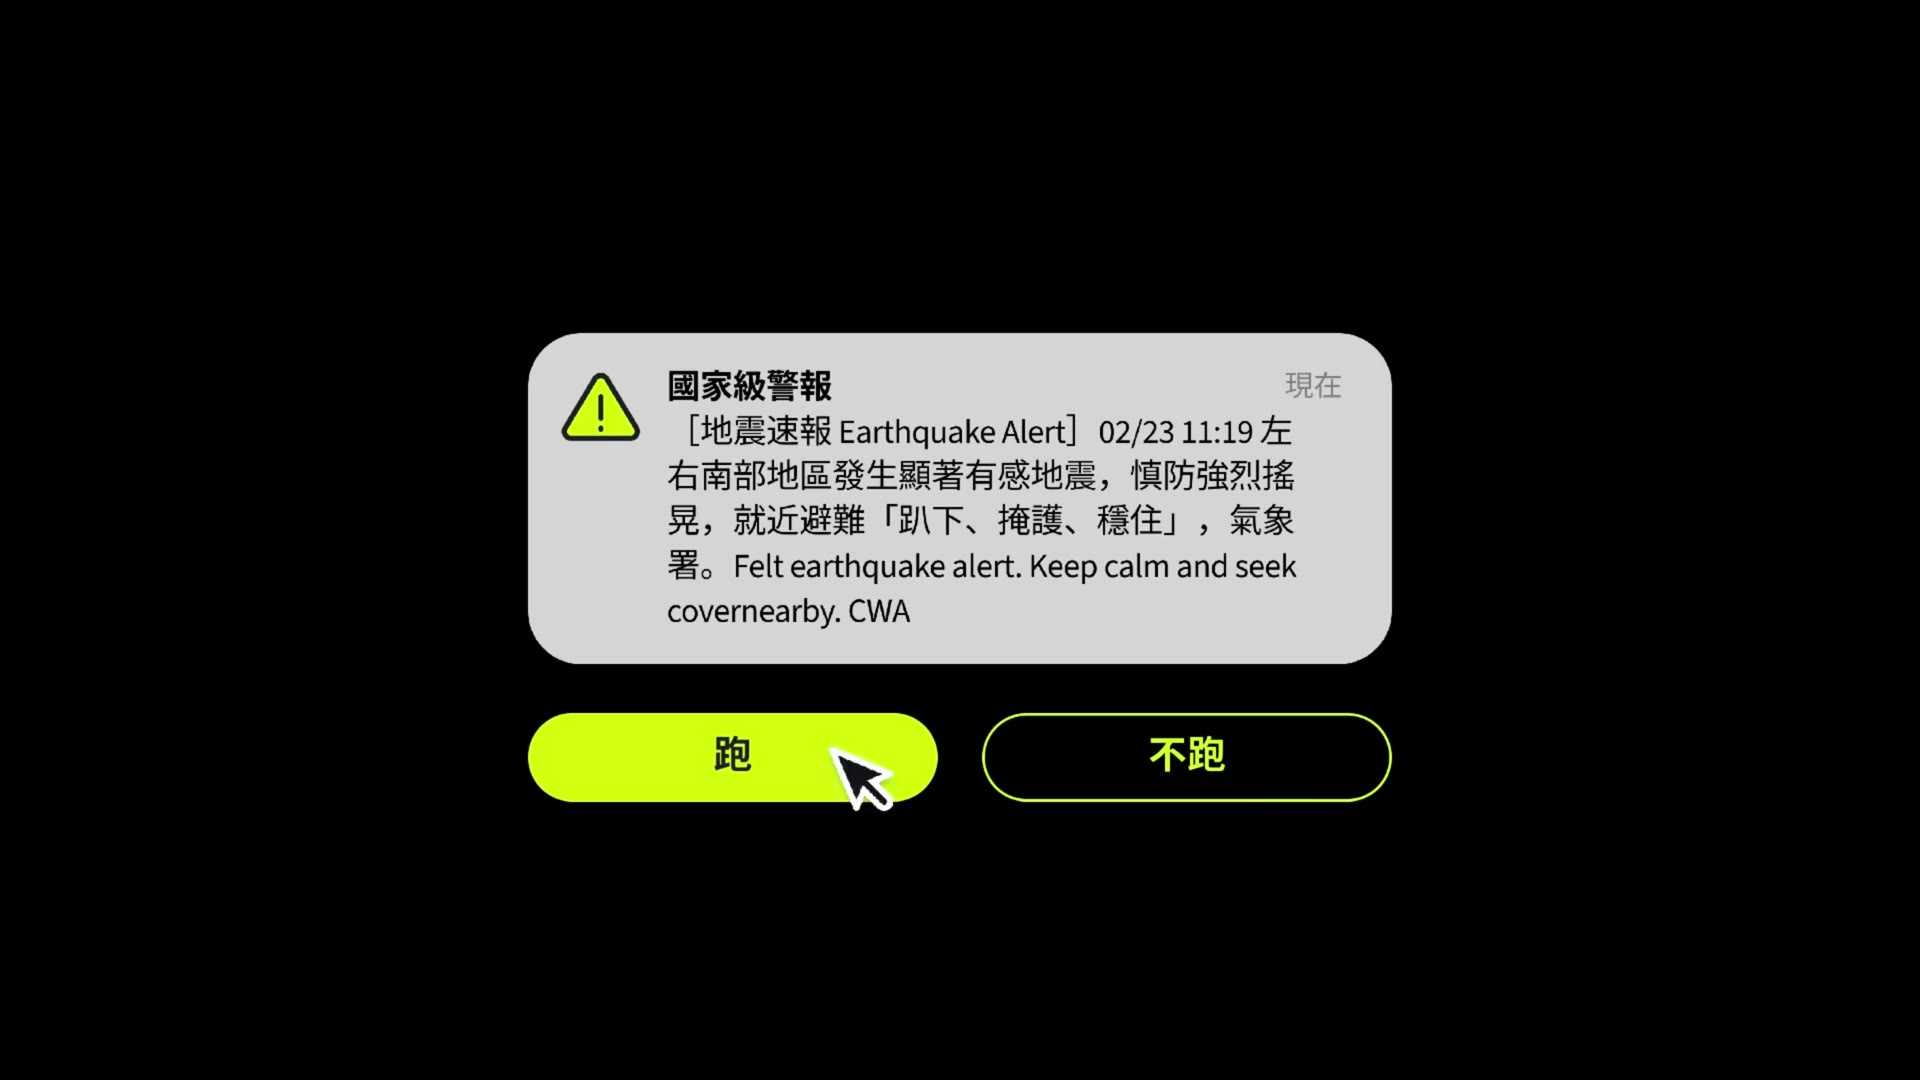
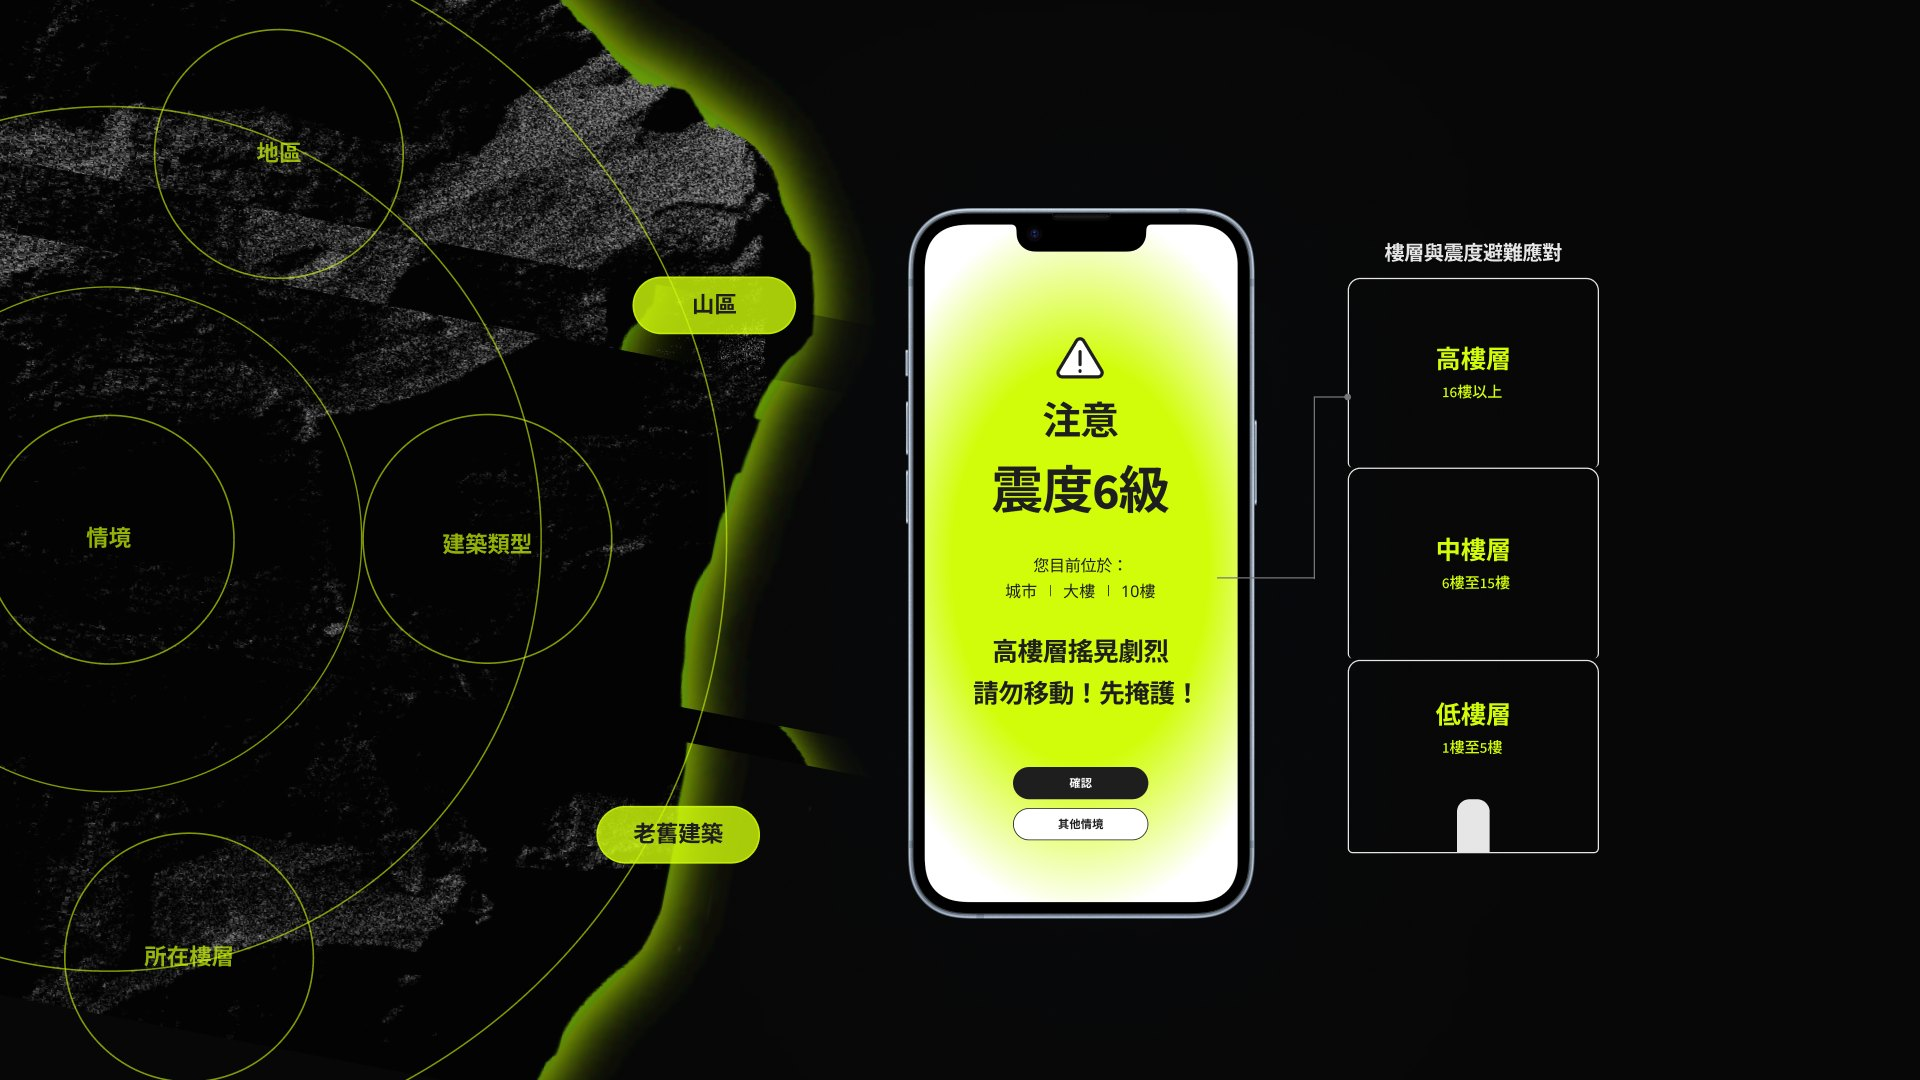
Soul Map case study rebuilt; 3:1 hero covers; new video poster
- soulmap.html: concept-practice narrative (honest positioning) with
  one core judgment (sequential unlock answers both choice-paralysis
  and motivation), three decision cards, practice-boundary note,
  periwinkle light showcase with character design section
- TRA and Soul Map heroes re-exported at 3200x1080 (3:1 spec, no crop)
- Quake intro video poster replaced (user's 1920x1080 artwork)
- Copy: professional narrative pass on soulmap intro and 04 lead

diff --git a/work/soulmap.html b/work/soulmap.html
@@ -3,8 +3,8 @@
 <head>
 <meta charset="UTF-8" />
 <meta name="viewport" content="width=device-width, initial-scale=1.0" />
-<title>Soul Map — 心靈冥想 App · Case Study</title>
-<meta name="description" content="Soul Map — 心靈冥想 / 自我覺察 App 的 UI/UX 完整案例。" />
+<title>Soul Map — 冥想 App 概念設計 · Case Study</title>
+<meta name="description" content="Soul Map — 從 0 到 1 的冥想 App 概念設計。以循序解鎖的主題結構回應「不知如何開始」與「無法持續」兩大門檻，並以角色與色彩建立情緒語言。" />
 <link rel="preconnect" href="https://fonts.googleapis.com" />
 <link rel="preconnect" href="https://fonts.gstatic.com" crossorigin />
 <link href="https://fonts.googleapis.com/css2?family=Fraunces:ital,opsz,wght@0,9..144,300..600;1,9..144,300..500&family=Hanken+Grotesk:wght@400;500;600&display=swap" rel="stylesheet" />
@@ -20,68 +20,243 @@
 </div>
 
 <main>
-  <section class="case-hero">
-    <div class="wrap">
-      <span class="eyebrow">UI/UX · Wellness App · 2023</span>
-      <h1 class="display">Soul Map</h1>
-      <p class="lead">以「冥想與自我覺察」為主題的 App 概念 —— 從 UX 研究、人物誌、資訊架構到 UI 視覺的完整案例，用柔和的漸層與 3D 角色建立平靜、被陪伴的使用感受。</p>
+  <!-- 滿版 hero -->
+  <div class="cx-herobanner">
+    <img src="../assets/images/project/UIUX/web/soulmap/cover.jpg" alt="Soul Map 主視覺" />
+  </div>
+
+  <!-- 標題 -->
+  <div class="cx-title">
+    <span class="eyebrow">UI/UX · Meditation App Concept · 2022</span>
+    <h1 class="display">Soul Map</h1>
+    <p class="lead">從 0 到 1 的冥想 App 概念設計：把「持續下去的動力」做成產品機制與視覺語言。</p>
+  </div>
+
+  <!-- meta -->
+  <dl class="cx-metarow">
+    <div><dt>專案時程</dt><dd>2022</dd></div>
+    <div><dt>主要負責項目</dt><dd>UX 研究、UI 設計、角色與視覺設計</dd></div>
+    <div><dt>使用工具</dt><dd>Figma</dd></div>
+    <div><dt>類型</dt><dd>概念設計 · 心理健康</dd></div>
+  </dl>
+
+  <!-- 左導覽 + 敘事 -->
+  <div class="cx">
+    <aside class="cx-nav">
+      <ul>
+        <li><a href="#s1" class="active">背景與目標</a></li>
+        <li><a href="#s2">挑戰與洞察</a></li>
+        <li><a href="#s3">設計決策</a></li>
+        <li><a href="#s4">介面設計</a></li>
+      </ul>
+    </aside>
+
+    <div class="cx-main">
+
+      <!-- 01 背景與目標 -->
+      <section class="cx-sec" id="s1" data-sec>
+        <span class="secnum">01</span>
+        <h2 class="lbl">背景與目標</h2>
+        <p class="intro">冥想有助於緩解焦慮與壓力，但多數人在學習過程中會遇到兩個障礙，<b>不知道如何開始，以及難以長期持續</b>。Soul Map 是一項從 0 到 1 的概念設計，目標是透過產品機制降低入門門檻、建立持續練習的動力。</p>
+        <div class="sub">
+          <h3>專案目標</h3>
+          <ul class="facts">
+            <li>引導式冥想，幫助使用者輕鬆進入、提高專注與放鬆</li>
+            <li>主題依難度與目標分類，循序漸進解鎖，降低入門門檻</li>
+            <li>日記與進度追蹤，把進步變得看得見，支撐習慣養成</li>
+          </ul>
+        </div>
+      </section>
+
+      <!-- 02 挑戰與洞察 -->
+      <section class="cx-sec" id="s2" data-sec>
+        <span class="secnum">02</span>
+        <h2 class="lbl">挑戰與洞察</h2>
+        <p class="intro">這個專案的研究做三件事：看競品缺什麼、找出三種典型使用者、把他們的旅程攤開找斷點。</p>
+        <div class="phases">
+          <div class="ph"><span class="pht">競品分析</span><span class="phw">Headspace、Calm、10% happier</span></div>
+          <div class="ph"><span class="pht">Persona · 3 位</span><span class="phw">對應冥想旅程的三個階段</span></div>
+          <div class="ph"><span class="pht">Journey Map</span><span class="phw">斷點歸納成三個設計方向</span></div>
+        </div>
+
+        <div class="sub">
+          <h3>競品分析：共同的缺口</h3>
+          <p>三款主流冥想 App 都有探索、主題自選與紀錄追蹤；差異在 Headspace 的社交互動、Calm 的沉浸介面、10% happier 的個人化引導。共同的缺口是：<b>沒有一款把「循序漸進」做成結構</b>，初學者一進來就面對整片主題海。</p>
+          <div class="fig"><img src="../assets/images/project/UIUX/web/soulmap/research.jpg" alt="競品分析：三款冥想 App 的定位與異同" loading="lazy" /><div class="cap">競品定位 · 資訊架構複雜度 × 介面簡易度，與三款產品的類同點、類異點</div></div>
+        </div>
+
+        <div class="sub">
+          <h3>三位使用者：開始、持續、分享</h3>
+          <p>三位訪談對象剛好落在冥想旅程的三個階段：想開始的 CAMILA（不知道冥想該如何開始）、想持續的 KEVIN（容易分心、很難自律養成習慣）、想分享的 GEOFF（和身邊的人一起冥想更有樂趣）。<b>三個階段，三種需要被設計的動力。</b></p>
+          <div class="fig"><img src="../assets/images/project/UIUX/web/soulmap/persona.jpg" alt="三位 Persona：CAMILA、KEVIN、GEOFF" loading="lazy" /><div class="cap">Persona · 想開始（CAMILA）、想持續（KEVIN）、想分享（GEOFF）</div></div>
+        </div>
+
+        <div class="sub">
+          <h3>旅程斷點：三個設計方向</h3>
+          <p>把使用歷程從探索、註冊、開始冥想到長期使用攤開後，低谷收斂成三件事：<b>主題太多不知道選哪個、無法專注與維持動力、無法與朋友分享</b>。這三個方向就是後續設計的骨架。</p>
+          <div class="fig"><img src="../assets/images/project/UIUX/web/soulmap/journey.jpg" alt="Journey Map：使用歷程與痛點" loading="lazy" /><div class="cap">Journey Map · 低谷集中在「不知道選哪個主題」「付費牆」「沒有動力持續」</div></div>
+        </div>
+
+        <div class="sub">
+          <h3>設計觀點：五個功能支柱</h3>
+          <p>三個方向展開成五個功能支柱：進度追蹤、解鎖資源、主題分類、好友分享、日記。以解鎖的方式循序漸進獲得新課程，用心情日記回顧成長，讓動力來自產品機制本身。</p>
+          <div class="fig"><img src="../assets/images/project/UIUX/web/soulmap/pov.jpg" alt="Point of View 與五大功能支柱" loading="lazy" /></div>
+        </div>
+      </section>
+
+      <!-- 03 設計決策 -->
+      <section class="cx-sec" id="s3" data-sec>
+        <span class="secnum">03</span>
+        <h2 class="lbl">設計決策</h2>
+        <p class="intro">五個支柱裡，真正的核心判斷只有一個：<b>主題要不要全部開放</b>。</p>
+        <div class="versus">
+          <div class="vopt lose">
+            <span class="vtag">放棄</span>
+            <div class="vt">全部開放</div>
+            <p>所有冥想主題自由選擇，想練哪個練哪個</p>
+          </div>
+          <div class="vs">vs</div>
+          <div class="vopt win">
+            <span class="vtag">我的選擇</span>
+            <div class="vt">循序解鎖</div>
+            <p>一次只給一關，完成才解鎖下一關</p>
+          </div>
+        </div>
+        <p class="intro" style="margin-top:16px">一個機制同時回應兩個痛點：「主題太多不知道選哪個」，因為一次只有一關，不需要選；「沒有動力持續」，因為解鎖本身就是獎勵。代價也很明確：<b>有經驗的使用者會被進度綁住</b>，無法直接跳到想要的主題。</p>
+
+        <div class="sub">
+          <h3>三個決策</h3>
+          <div class="dcards">
+            <div class="dcard">
+              <span class="dph">開始</span>
+              <span class="dnum">決策 01</span>
+              <h4>循序解鎖的主題結構</h4>
+              <span class="dsrc">依據 · 旅程斷點「主題選項多不知如何選擇」；KEVIN「沒有動力每天冥想」。</span>
+              <div class="dline dwin"><span class="k">選擇</span><span>Level 1 呼吸、Level 2 減壓、Level 3 內觀，完成當前主題才解鎖下一個</span></div>
+              <div class="dline dlose"><span class="k">放棄</span><span>自由選擇：有經驗的使用者被進度綁住</span></div>
+            </div>
+            <div class="dcard">
+              <span class="dph">持續</span>
+              <span class="dnum">決策 02</span>
+              <h4>心情日記與進度追蹤</h4>
+              <span class="dsrc">依據 · KEVIN「能追蹤冥想紀錄和看到活動結果」；把看不見的進步變成看得見的數據與心情。</span>
+              <div class="dline dwin"><span class="k">選擇</span><span>冥想完成即寫心情、進步率圓環與每週時間長條圖</span></div>
+              <div class="dline dlose"><span class="k">放棄</span><span>完成即離開的極簡流程：多一步紀錄，換長期的動力</span></div>
+            </div>
+            <div class="dcard">
+              <span class="dph">分享</span>
+              <span class="dnum">決策 03</span>
+              <h4>好友聊天與成就分享</h4>
+              <span class="dsrc">依據 · GEOFF「能和身邊的人一起冥想更有樂趣」；旅程斷點「無法與朋友分享」。</span>
+              <div class="dline dwin"><span class="k">選擇</span><span>好友邀請、聊天對話、成就與心情分享</span></div>
+              <div class="dline dlose"><span class="k">放棄</span><span>純個人的產品定位：引入社交就得處理封鎖、靜音與通知的複雜度</span></div>
+            </div>
+          </div>
+        </div>
+
+        <div class="sub">
+          <h3>功能架構與流程</h3>
+          <p>功能架構沿五個支柱展開；流程分成帳號與冥想兩條主線，冥想完成後接心情日記與解鎖新課程，把「完成 → 紀錄 → 解鎖」串成動力迴圈。</p>
+          <div class="fig"><img src="../assets/images/project/UIUX/web/soulmap/functional-map.jpg" alt="Functional Map 功能架構" loading="lazy" /><div class="cap">Functional Map · 六大功能分支</div></div>
+          <div class="fig"><img src="../assets/images/project/UIUX/web/soulmap/userflow.jpg" alt="User Flow：帳號與冥想主流程" loading="lazy" /><div class="cap">User Flow · 登入註冊與冥想主流程，完成後接日記與解鎖</div></div>
+        </div>
+
+        <div class="sub">
+          <h3>Wireframe</h3>
+          <p>以線框把啟動、主題、播放、追蹤、日記到聊天的畫面骨架排定，再進入視覺設計。</p>
+          <div class="fig"><img src="../assets/images/project/UIUX/web/soulmap/wireframe.jpg" alt="Wireframe 畫面骨架" loading="lazy" /></div>
+        </div>
+
+        <div class="sub">
+          <h3>練習的邊界</h3>
+          <p>本專案為概念設計，尚未進行易用性測試。若後續投入開發，優先驗證的是解鎖機制，循序解鎖降低了初學者的選擇負擔，<b>但對已有經驗、想自由探索的使用者可能形成新的限制</b>，兩者的平衡需要以測試確認。</p>
+        </div>
+      </section>
+
     </div>
+  </div>
+
+  <!-- 04 介面設計（淺色展示區） -->
+  <section class="uilight" id="s4" data-sec>
+    <div class="uhead">
+      <span class="k">04</span>
+      <h2>介面設計</h2>
+      <p>介面以藍紫色為主色，搭配玻璃質感與漸層營造平靜放鬆的氛圍；三個 Level 分別對應專屬角色與代表色，作為情緒與進度的視覺識別。</p>
+    </div>
+
+    <div class="ui-sub">
+      <span class="k">Design System</span>
+      <h3>Style Guide</h3>
+      <p>色彩、字級、按鈕與元件狀態的規格，維持多畫面的一致性。</p>
+    </div>
+    <div class="wide">
+      <div class="sgbox"><img src="../assets/images/project/UIUX/web/soulmap/styleguide.jpg" alt="Style Guide 設計系統" loading="lazy" /></div>
+      <div class="boxhint">↕ 框內可捲動查看完整設計系統</div>
+    </div>
+
+    <div class="ui-sub">
+      <span class="k">Character</span>
+      <h3>角色設計</h3>
+      <p>三個 Level 各有一位冥想角色與情緒代表色，陪使用者從呼吸練到內觀；角色也是解鎖進度的視覺回饋。</p>
+    </div>
+    <div class="wide"><img src="../assets/images/project/UIUX/web/soulmap/character.jpg" alt="三個 Level 的冥想角色設計" loading="lazy" /></div>
+
+    <div class="ui-sub">
+      <span class="k">介面 01</span>
+      <h3>啟動與歡迎</h3>
+      <p>進入 App 先預告接下來會發生的事，降低初學者的不確定感。</p>
+    </div>
+    <div class="wide"><img src="../assets/images/project/UIUX/web/soulmap/ui-1.jpg" alt="啟動畫面與歡迎頁" loading="lazy" /></div>
+
+    <div class="ui-sub">
+      <span class="k">介面 02</span>
+      <h3>登入與註冊</h3>
+      <p>支援第三方登入，註冊的理由講清楚：保存你的練習紀錄。</p>
+    </div>
+    <div class="wide"><img src="../assets/images/project/UIUX/web/soulmap/ui-2.jpg" alt="登入與註冊" loading="lazy" /></div>
+
+    <div class="ui-sub">
+      <span class="k">介面 03</span>
+      <h3>解鎖式主題</h3>
+      <p>Level 1 到 Level 3 由呼吸、減壓到內觀，鎖頭即進度：決策 01 的落地。</p>
+    </div>
+    <div class="wide"><img src="../assets/images/project/UIUX/web/soulmap/ui-3.jpg" alt="解鎖式冥想主題" loading="lazy" /></div>
+
+    <div class="ui-sub">
+      <span class="k">介面 04</span>
+      <h3>冥想引導動畫</h3>
+      <p>吸氣、吐氣跟著角色動畫走，不靠文字指令維持專注。</p>
+    </div>
+    <div class="wide"><img src="../assets/images/project/UIUX/web/soulmap/ui-4.jpg" alt="冥想引導動畫序列" loading="lazy" /></div>
+
+    <div class="ui-sub">
+      <span class="k">介面 05</span>
+      <h3>心情回饋</h3>
+      <p>冥想結束即刻記下心情，回顧時看得到自己的變化：決策 02 的落地。</p>
+    </div>
+    <div class="wide"><img src="../assets/images/project/UIUX/web/soulmap/ui-5.jpg" alt="冥想後的心情回饋" loading="lazy" /></div>
+
+    <div class="ui-sub">
+      <span class="k">介面 06</span>
+      <h3>追蹤與日記</h3>
+      <p>進步率圓環、每週時間長條與心情日記，把持續變成看得見的成果。</p>
+    </div>
+    <div class="wide"><img src="../assets/images/project/UIUX/web/soulmap/ui-6.jpg" alt="練習追蹤與心情日記" loading="lazy" /></div>
+
+    <div class="ui-sub">
+      <span class="k">介面 07</span>
+      <h3>日曆與回顧</h3>
+      <p>依日期回看每一次練習與當時的心情。</p>
+    </div>
+    <div class="wide"><img src="../assets/images/project/UIUX/web/soulmap/ui-7.jpg" alt="日曆選擇與回顧" loading="lazy" /></div>
+
+    <div class="ui-sub">
+      <span class="k">介面 08</span>
+      <h3>好友與聊天</h3>
+      <p>邀請好友、分享心情與成就，練習的旅程不孤單：決策 03 的落地。</p>
+    </div>
+    <div class="wide"><img src="../assets/images/project/UIUX/web/soulmap/ui-8.jpg" alt="好友聊天與分享" loading="lazy" /></div>
   </section>
-
-  <div class="wrap">
-    <dl class="case-meta">
-      <div><dt>Role</dt><dd>UI/UX Designer</dd></div>
-      <div><dt>Type</dt><dd>Mobile App · Wellness</dd></div>
-      <div><dt>Tools</dt><dd>Figma</dd></div>
-      <div><dt>Year</dt><dd>2023</dd></div>
-    </dl>
-  </div>
-
-  <div class="wrap">
-    <section class="block">
-      <h2>Overview 專案概述</h2>
-      <p>以「冥想與自我覺察」為主題的 App 概念，下方長圖呈現從 UX 研究、人物誌、資訊架構、風格指南到最終 UI 視覺的完整流程。設計上以柔和漸層與 3D 角色營造平靜、被陪伴的使用感受。</p>
-    </section>
-  </div>
-
-  <div class="board-label">
-    <span class="n">01</span>
-    <h2>背景與目標</h2>
-  </div>
-  <div class="wrap">
-    <section class="block" style="margin-top: 8px;">
-      <p>高壓與資訊過載的生活裡，許多人想透過冥想安頓自己，卻總是「下載了、打開兩次、然後放著」。Soul Map 是一個以冥想與自我覺察為主題的 App 概念，從 UX 研究、人物誌、資訊架構一路推進到 UI 視覺，目標是做出一個讓初學者敢開始、也留得下來的心靈練習空間。</p>
-    </section>
-  </div>
-
-  <div class="board-label">
-    <span class="n">02</span>
-    <h2>挑戰與洞察</h2>
-  </div>
-  <div class="wrap">
-    <section class="block" style="margin-top: 8px;">
-      <p>研究中最關鍵的洞察是：初學者的障礙不是「不想靜下來」，而是「不知道從哪裡開始、也不確定自己有沒有做對」；而工具型的冷介面反而放大了這種不安。使用者需要的是低門檻的引導與溫和的陪伴感，而不是又一個逼人打卡的效率工具。</p>
-    </section>
-  </div>
-
-  <div class="board-label">
-    <span class="n">03</span>
-    <h2>設計決策</h2>
-  </div>
-  <div class="wrap">
-    <section class="block" style="margin-top: 8px;">
-      <p>把「陪伴感」做成介面本身：柔和的藍紫漸層與圓潤的 3D 角色降低心理防備，像被引導而不是被監督。冥想內容以等級制展開（從「初學者冥想」開始），永遠知道下一步是什麼；「追蹤」與「日記」雙模式並行，把數據化的進度與感受性的書寫分開，練習的成就感不必依賴連續天數。</p>
-    </section>
-  </div>
-
-  <div class="board-label">
-    <span class="n">04</span>
-    <h2>介面設計</h2>
-    <p>從 UX 研究、人物誌、資訊架構、風格指南到最終 UI 的完整案例長圖。</p>
-  </div>
-  <div class="longshot">
-    <img src="../assets/images/project/UIUX/empty-soul-map.jpg" alt="Soul Map 心靈冥想 App 完整案例" />
-  </div>
 
   <section class="next">
     <div class="wrap">
@@ -97,6 +272,22 @@
     <span>UI/UX Case Study</span>
   </div>
 </footer>
+
+<script>
+  // 左側章節錨點：捲動高亮
+  const links = [...document.querySelectorAll('.cx-nav a')];
+  const map = {}; links.forEach(a => map[a.getAttribute('href')] = a);
+  const io = new IntersectionObserver((entries) => {
+    entries.forEach(e => {
+      if (e.isIntersecting) {
+        links.forEach(l => l.classList.remove('active'));
+        const a = map['#' + e.target.id];
+        if (a) a.classList.add('active');
+      }
+    });
+  }, { rootMargin: '-25% 0px -65% 0px' });
+  document.querySelectorAll('[data-sec]').forEach(s => io.observe(s));
+</script>
 
 </body>
 </html>

diff --git a/work/quake.html b/work/quake.html
@@ -14,7 +14,8 @@
 
 <div class="topbar">
   <div class="wrap">
-    <a class="brand" href="../index.html">Portfolio</a>
+    <a class="brand" href="../ind
+    ex.html">Portfolio</a>
     <a class="back" href="../index.html#work">← All work</a>
   </div>
 </div>